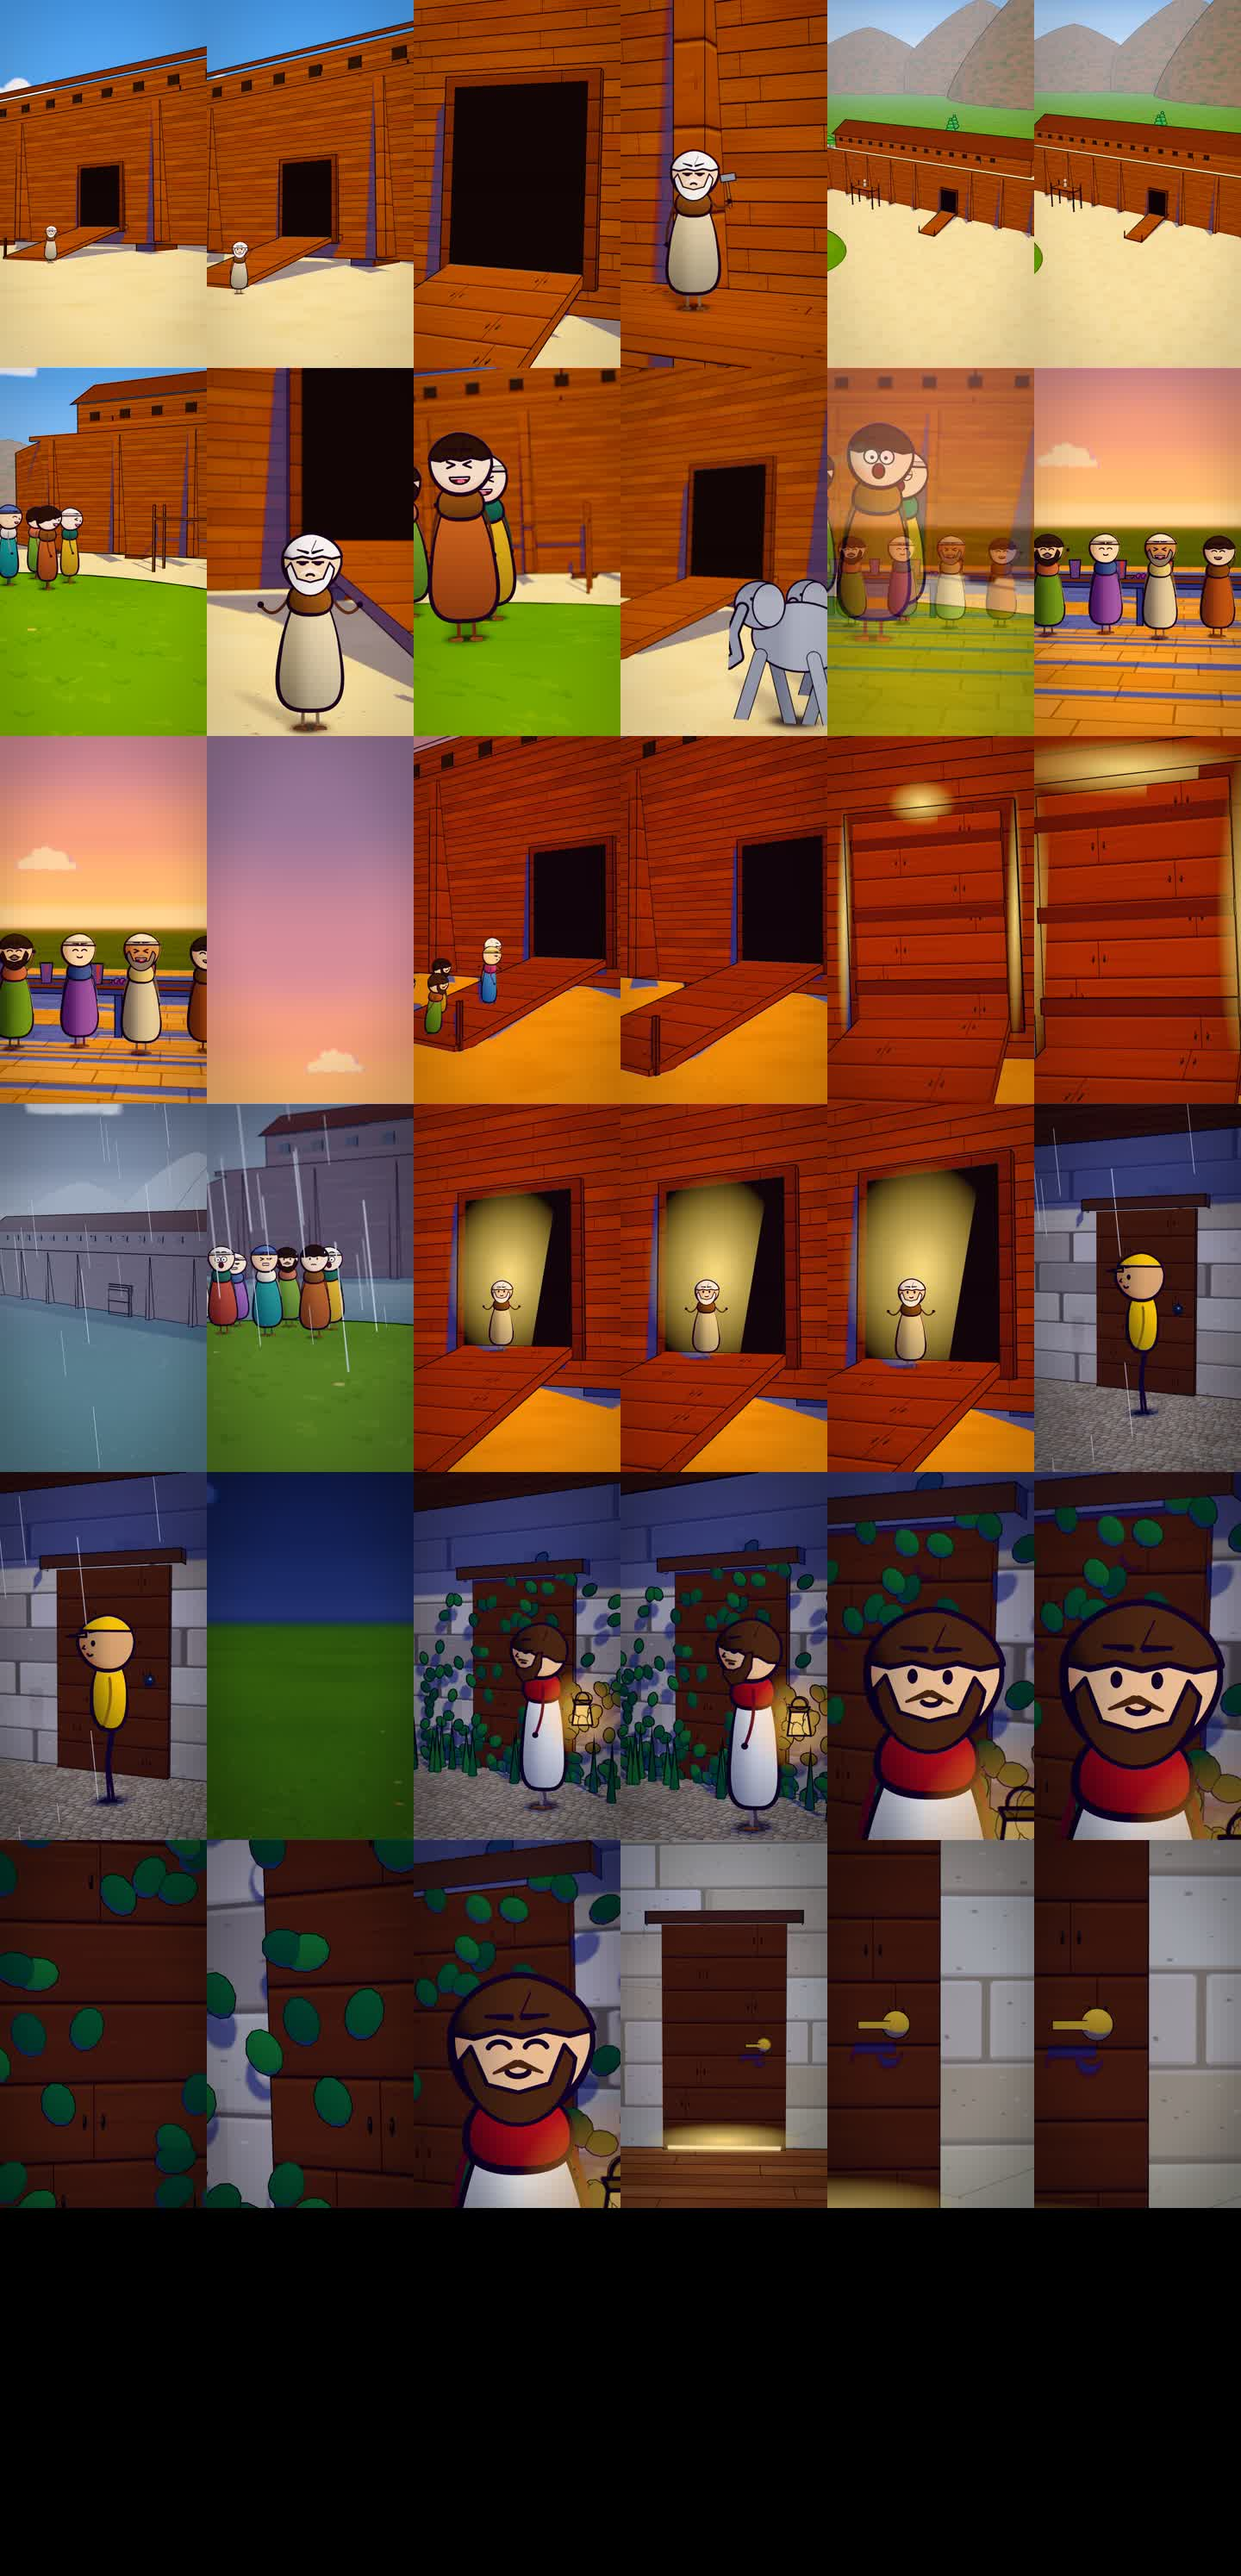
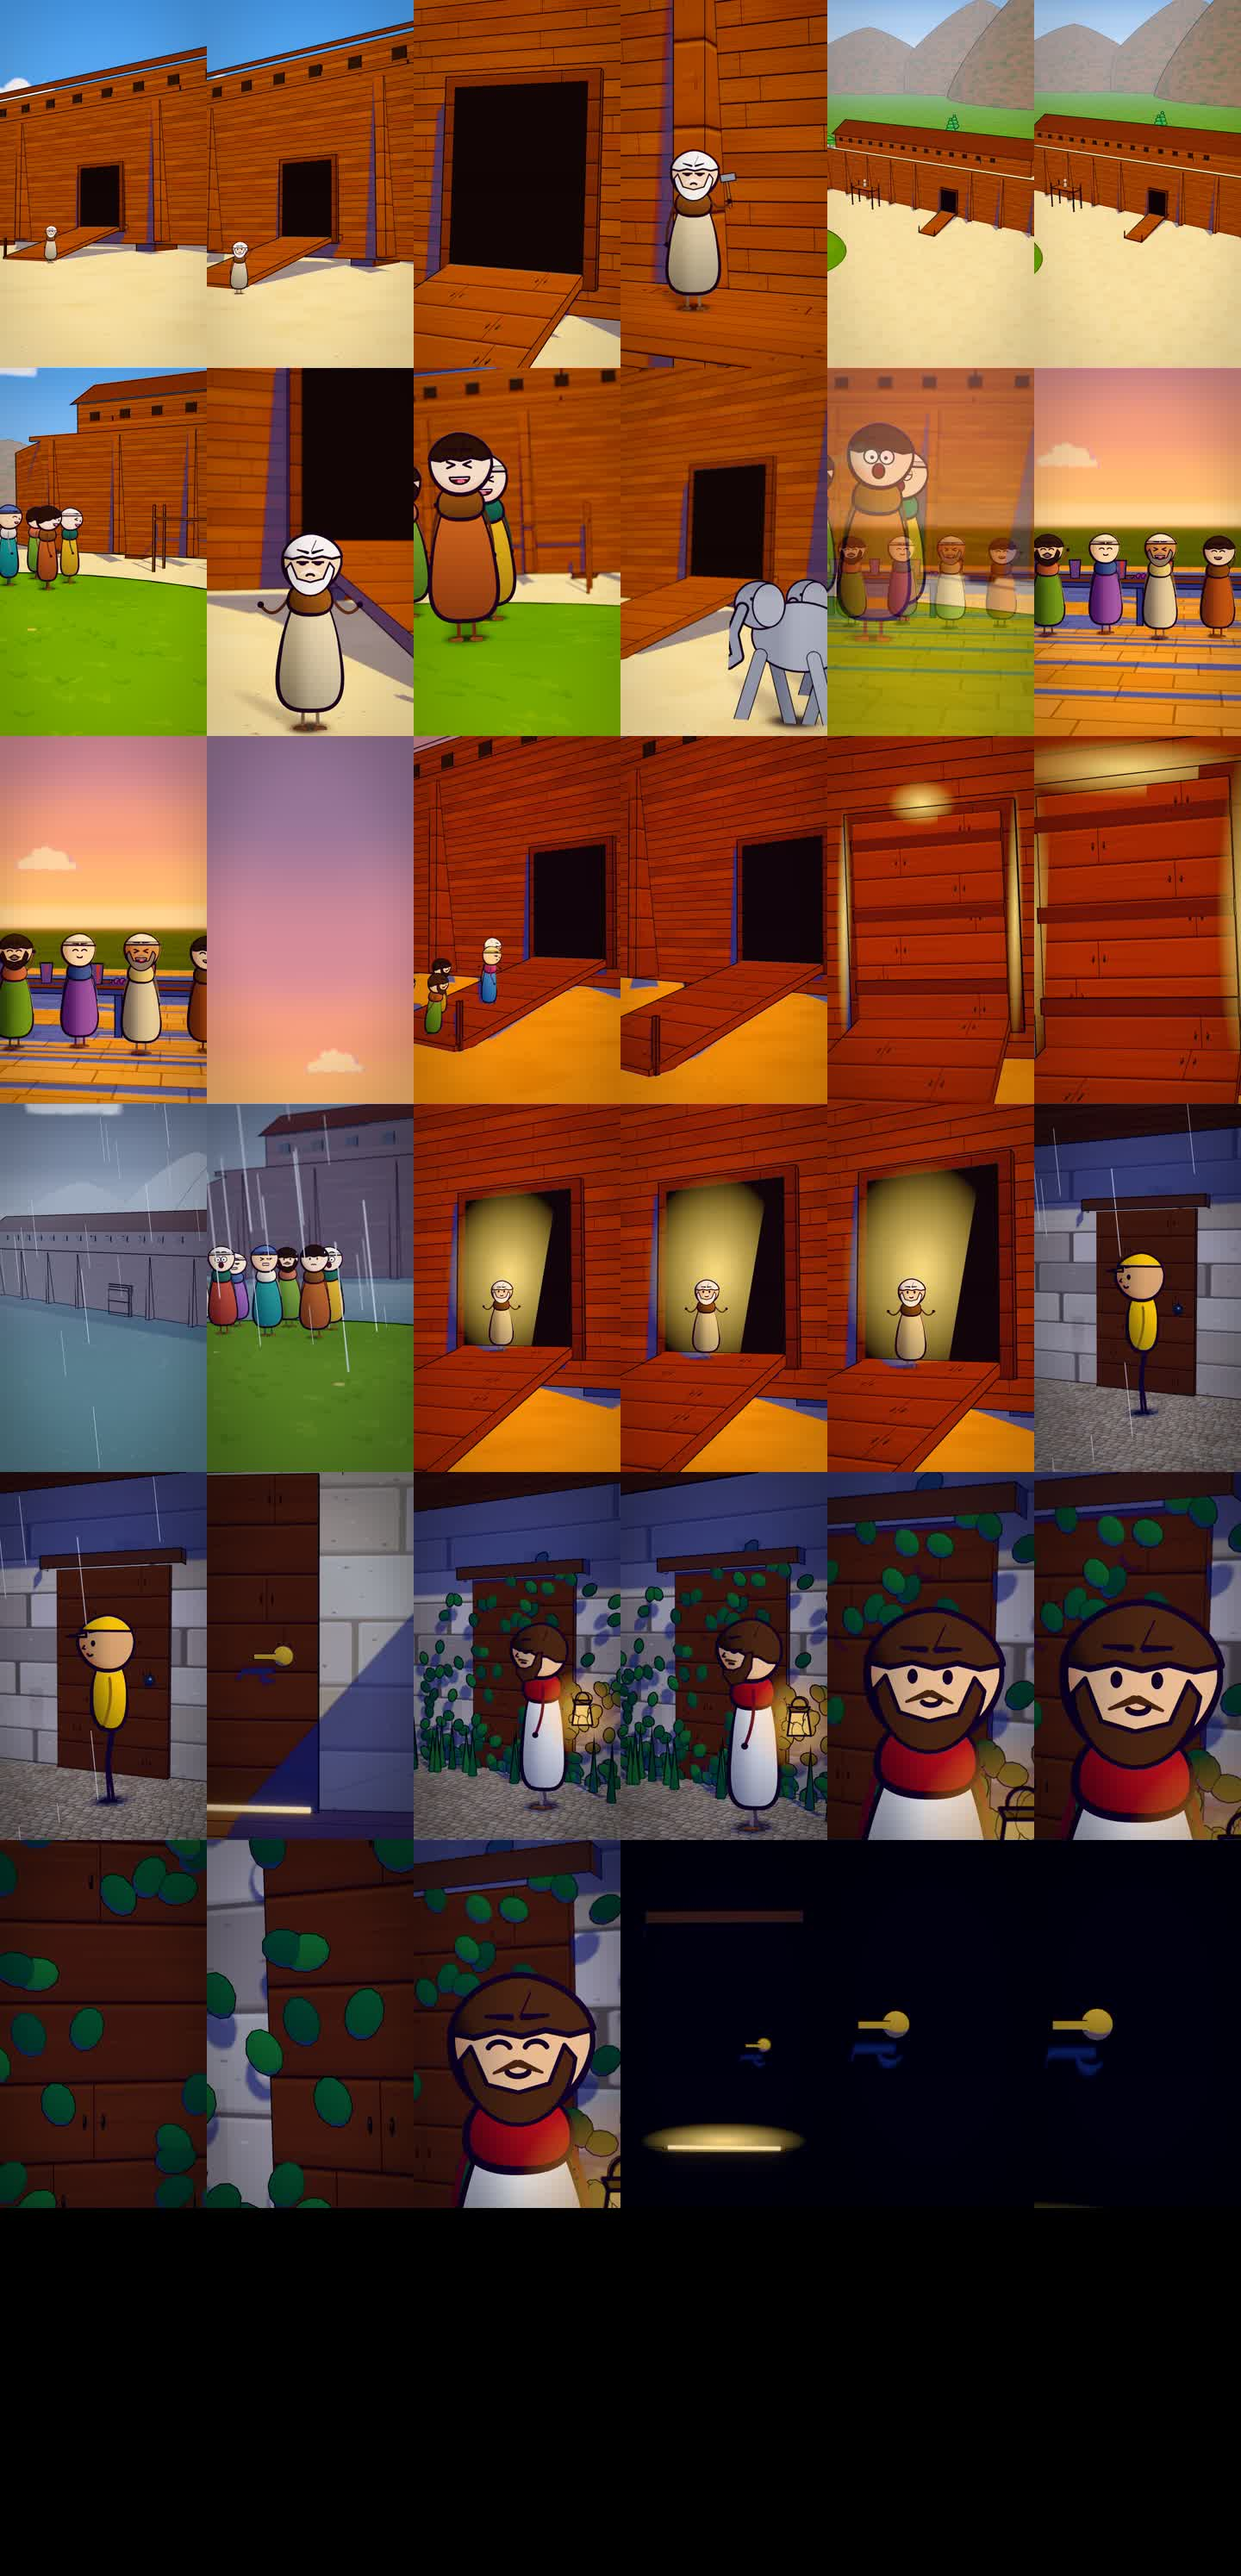
Job 006: Noah re-render fixes ~50s shot but end shots went dark (regression)

Changed region(s): [[0.5, 0.7156, 1.0, 0.8712], [0.1562, 0.5601, 0.3438, 0.7156]]

diff --git a/reports/STATUS.md b/reports/STATUS.md
@@ -36,4 +36,9 @@ WORKER READY os=Windows 11 Home 10.0.26300 gpu=NVIDIA GeForce RTX 4060 Laptop GP
   (a) row 1 col 3 (~t=4 s): empty orange ground, characters out of frame after walking off;
   (b) rows 3-4 (~t=24-26 s, ~32 s, ~40 s): several ghosted dissolves between shots;
   (c) row 6 col 3 (~t=52 s): ground close-up with an orange ring/glow and a stick, no characters.
-- Next: job 006 (Noah re-render with the fixed field shot) is rendering now.
+- DONE 006 noah-the-door (re-render) WITH A REGRESSION: duration=71.80s res=1440x2560, render_min~10.5, sheet=reports/noah-the-door_sheet.jpg (new), exports/noah-the-door_EN/HI.mp4 re-muxed (EN mean -17.7 dB, HI -17.0 dB).
+  FIXED: the shot at ~50 s now shows the door and handle (sheet row 5 col 2), no more empty green field.
+  REGRESSION: the last shots (~t=66-71 s, sheet row 6 cols 4-6) are almost black. The door, wall and floor are dark navy; only the gold handle and the light strip at the bottom are visible. In the first render (job 003) the same shots were bright (brown door, white brick wall, handle).
+  Before/after at t=60/64/68/71 s: reports/noah_006_end_regression.png (top row = old job-003 render, bottom row = new). t=60 and 64 are the same in both; 68 and 71 are the dark ones.
+  Because of this, FINAL VIDEOS\ still holds the OLD Noah files (with the empty-field shot). The new files are in exports\ only. Waiting for the planner to fix the lighting (probably the world.ts change) and queue a new job.
+- Next: job 007 (Cain re-render) is rendering now; I will compare it frame by frame against the old Cain at the same timestamps.

diff --git a/jobs/done.md b/jobs/done.md
@@ -4,3 +4,4 @@
 005
 003
 004
+006
